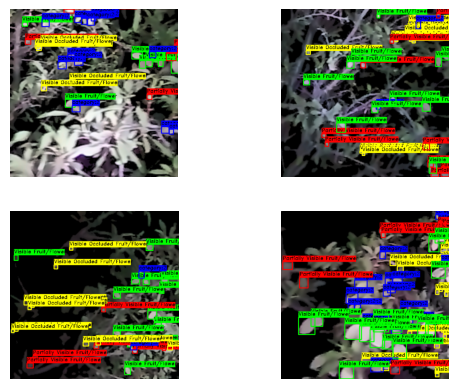
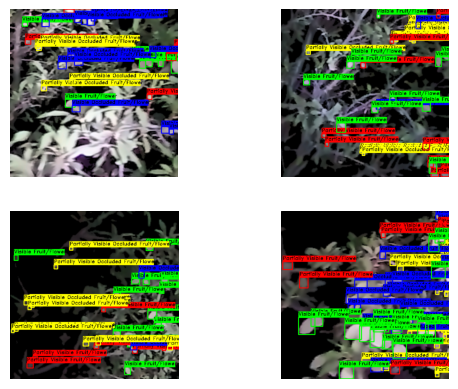
Updated dataset - almond_harvest_2021 and almond_bloom_2023

diff --git a/docs/datasets/almond_harvest_2021.md b/docs/datasets/almond_harvest_2021.md
@@ -5,13 +5,13 @@
 
 | Metadata | Value |
 | --- | --- |
-| **Classes** | Visible Fruit/Flower, Partially Visible Fruit/Flower, category:2, Visible Occluded Fruit/Flower |
+| **Classes** | Visible Fruit/Flower, Partially Visible Fruit/Flower, Visible Occluded Fruit/Flower, Partially Visible Occluded Fruit/Flower |
 | **Machine Learning Task** | object_detection |
-| **Agricultural Task** | almond_harvest2021 |
-| **Location** | Worldwide |
+| **Agricultural Task** | fruit_detection |
+| **Location** | United States, North America |
 | **Sensor Modality** | RGB |
 | **Real or Synthetic** | real |
-| **Platform** | handheld/ground |
+| **Platform** | ground |
 | **Annotation Format** | coco_json |
 | **Input Data Format** | JPG |
 | **Number of Images** | 50 |

diff --git a/docs/datasets/almond_bloom_2023.md b/docs/datasets/almond_bloom_2023.md
@@ -7,11 +7,11 @@
 | --- | --- |
 | **Classes** | Visible Fruit/Flower |
 | **Machine Learning Task** | object_detection |
-| **Agricultural Task** | almond_bloom2023 |
-| **Location** | Worldwide |
+| **Agricultural Task** | flower_detection |
+| **Location** | United States, North America |
 | **Sensor Modality** | RGB |
 | **Real or Synthetic** | real |
-| **Platform** | handheld/ground |
+| **Platform** | ground |
 | **Annotation Format** | coco_json |
 | **Input Data Format** | JPG |
 | **Number of Images** | 100 |

diff --git a/README.md b/README.md
@@ -196,4 +196,4 @@ We welcome contributions! If you would like to contribute a new feature, fix an 
 a bug or feature that you would like to see implemented, please don't hesitate to use the *Issues* tab to bring it to our attention.
 See the [contributing guidelines](/CONTRIBUTING.md) for more information.
 
-## Funding
+## Fund
